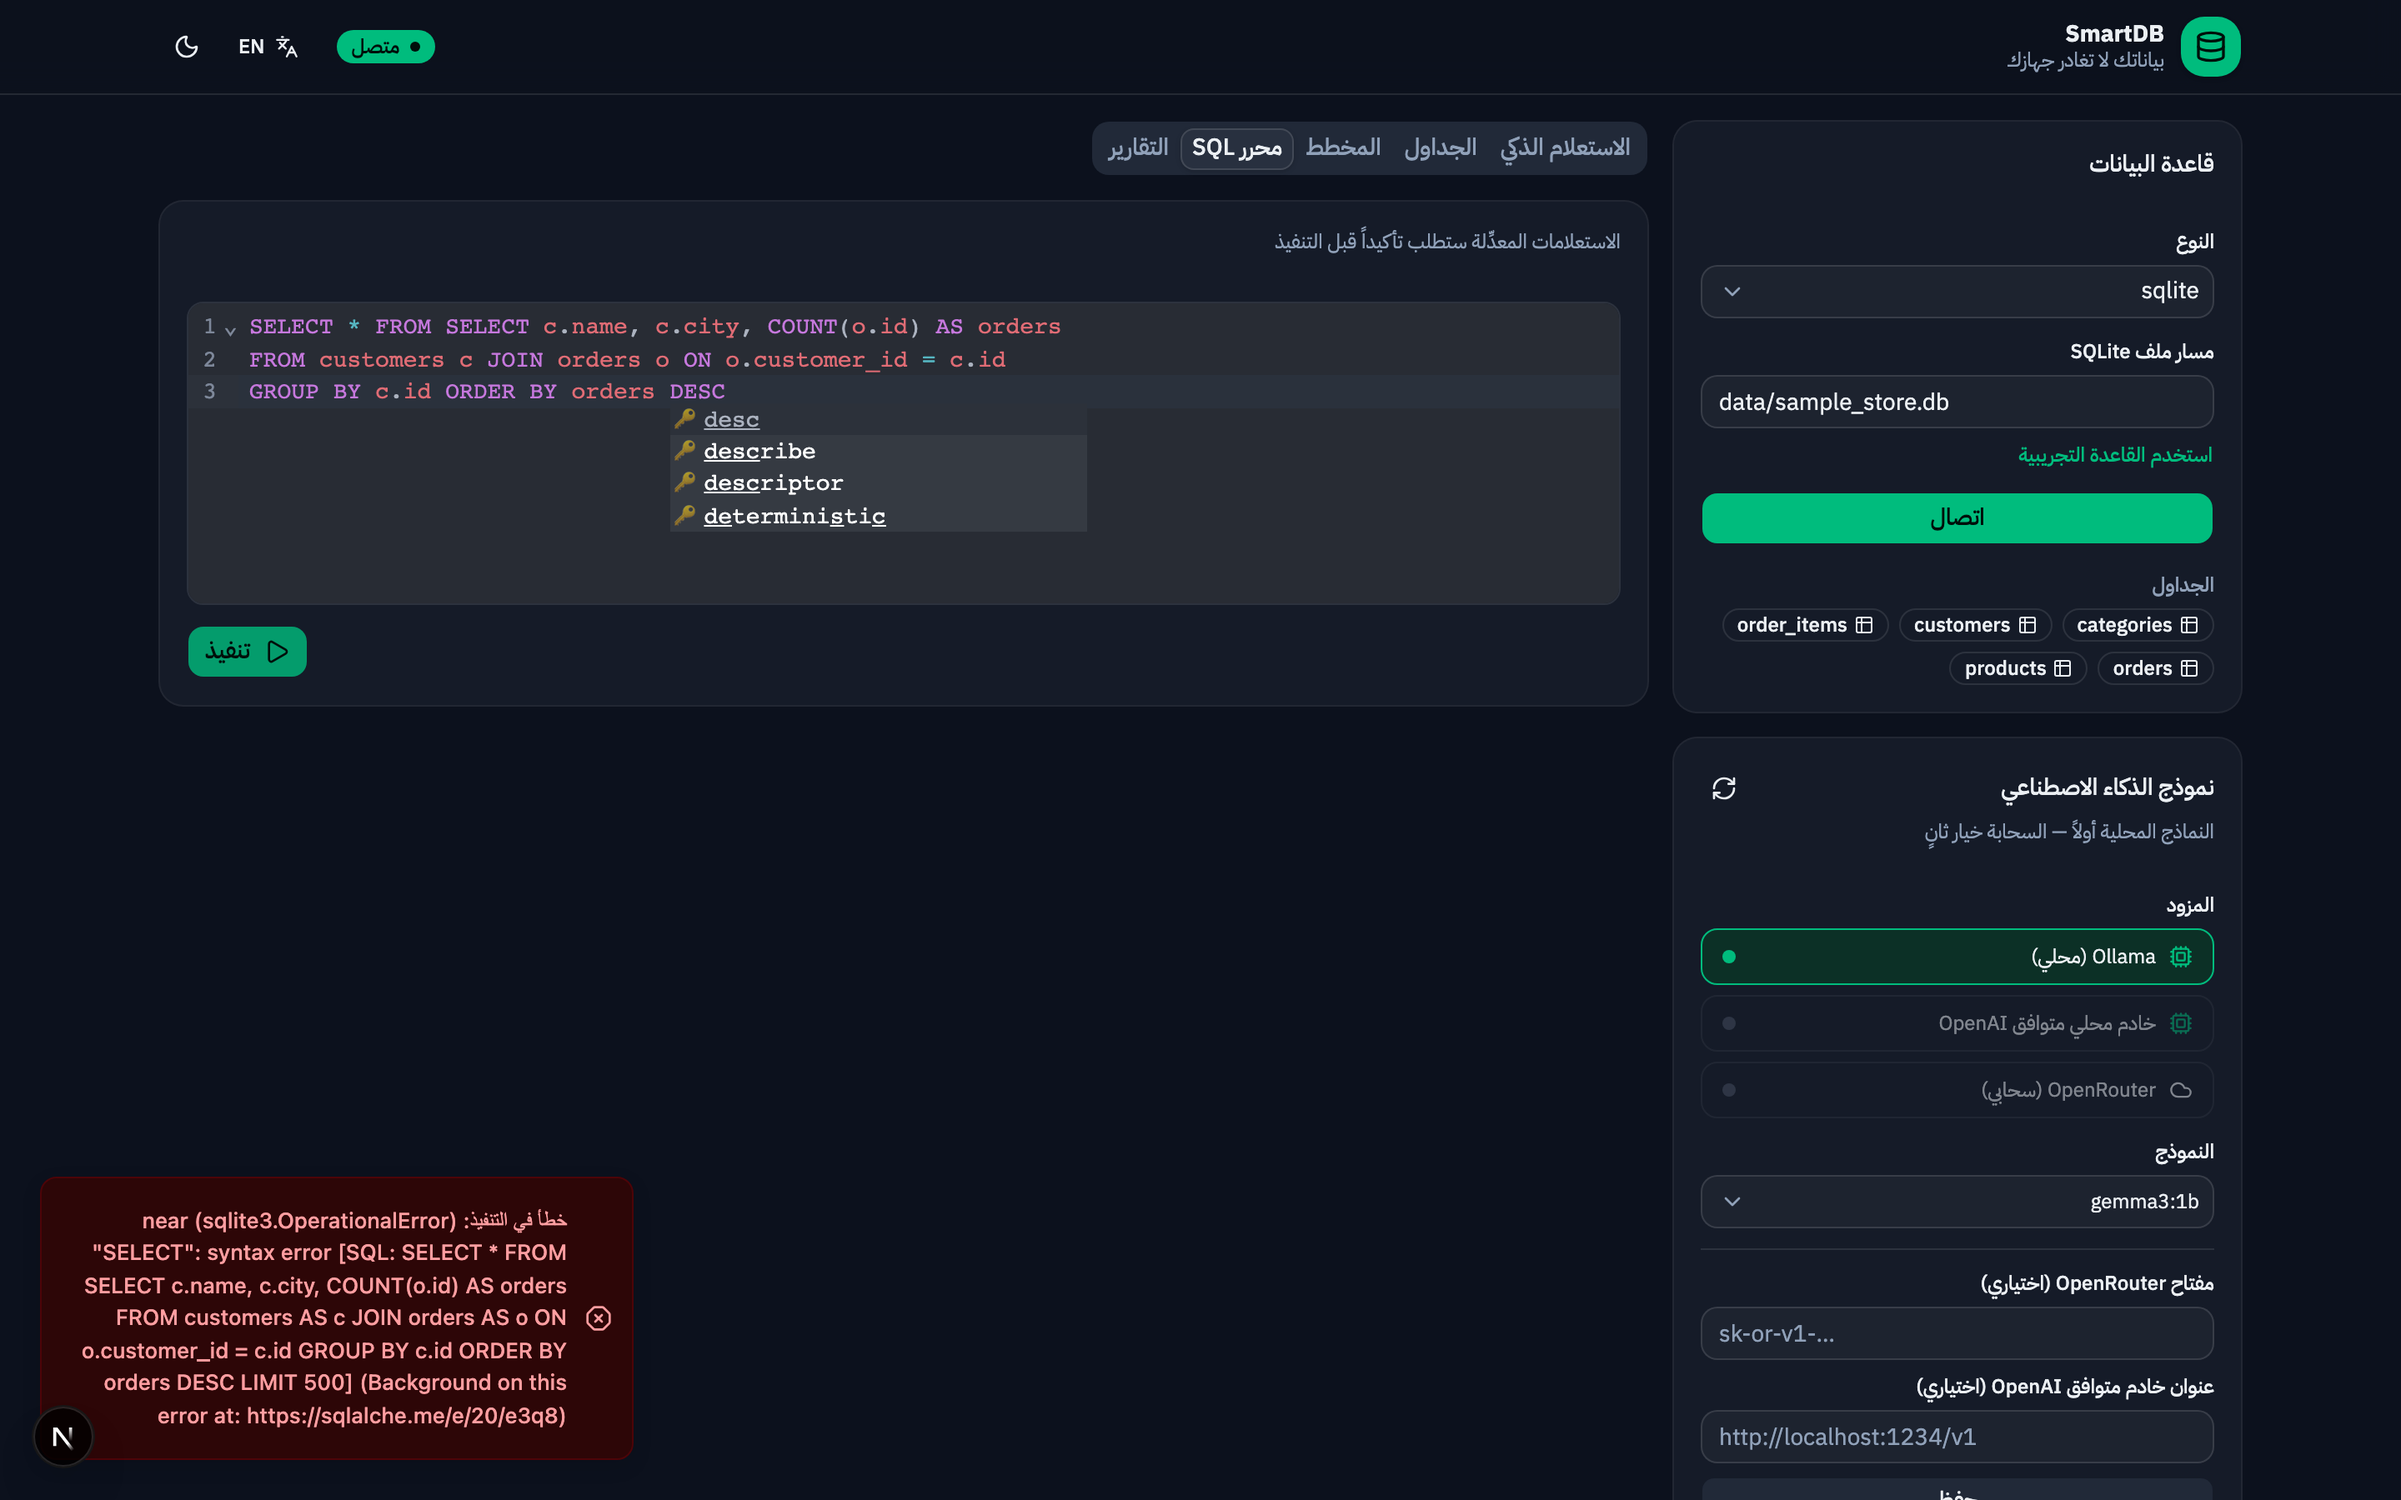
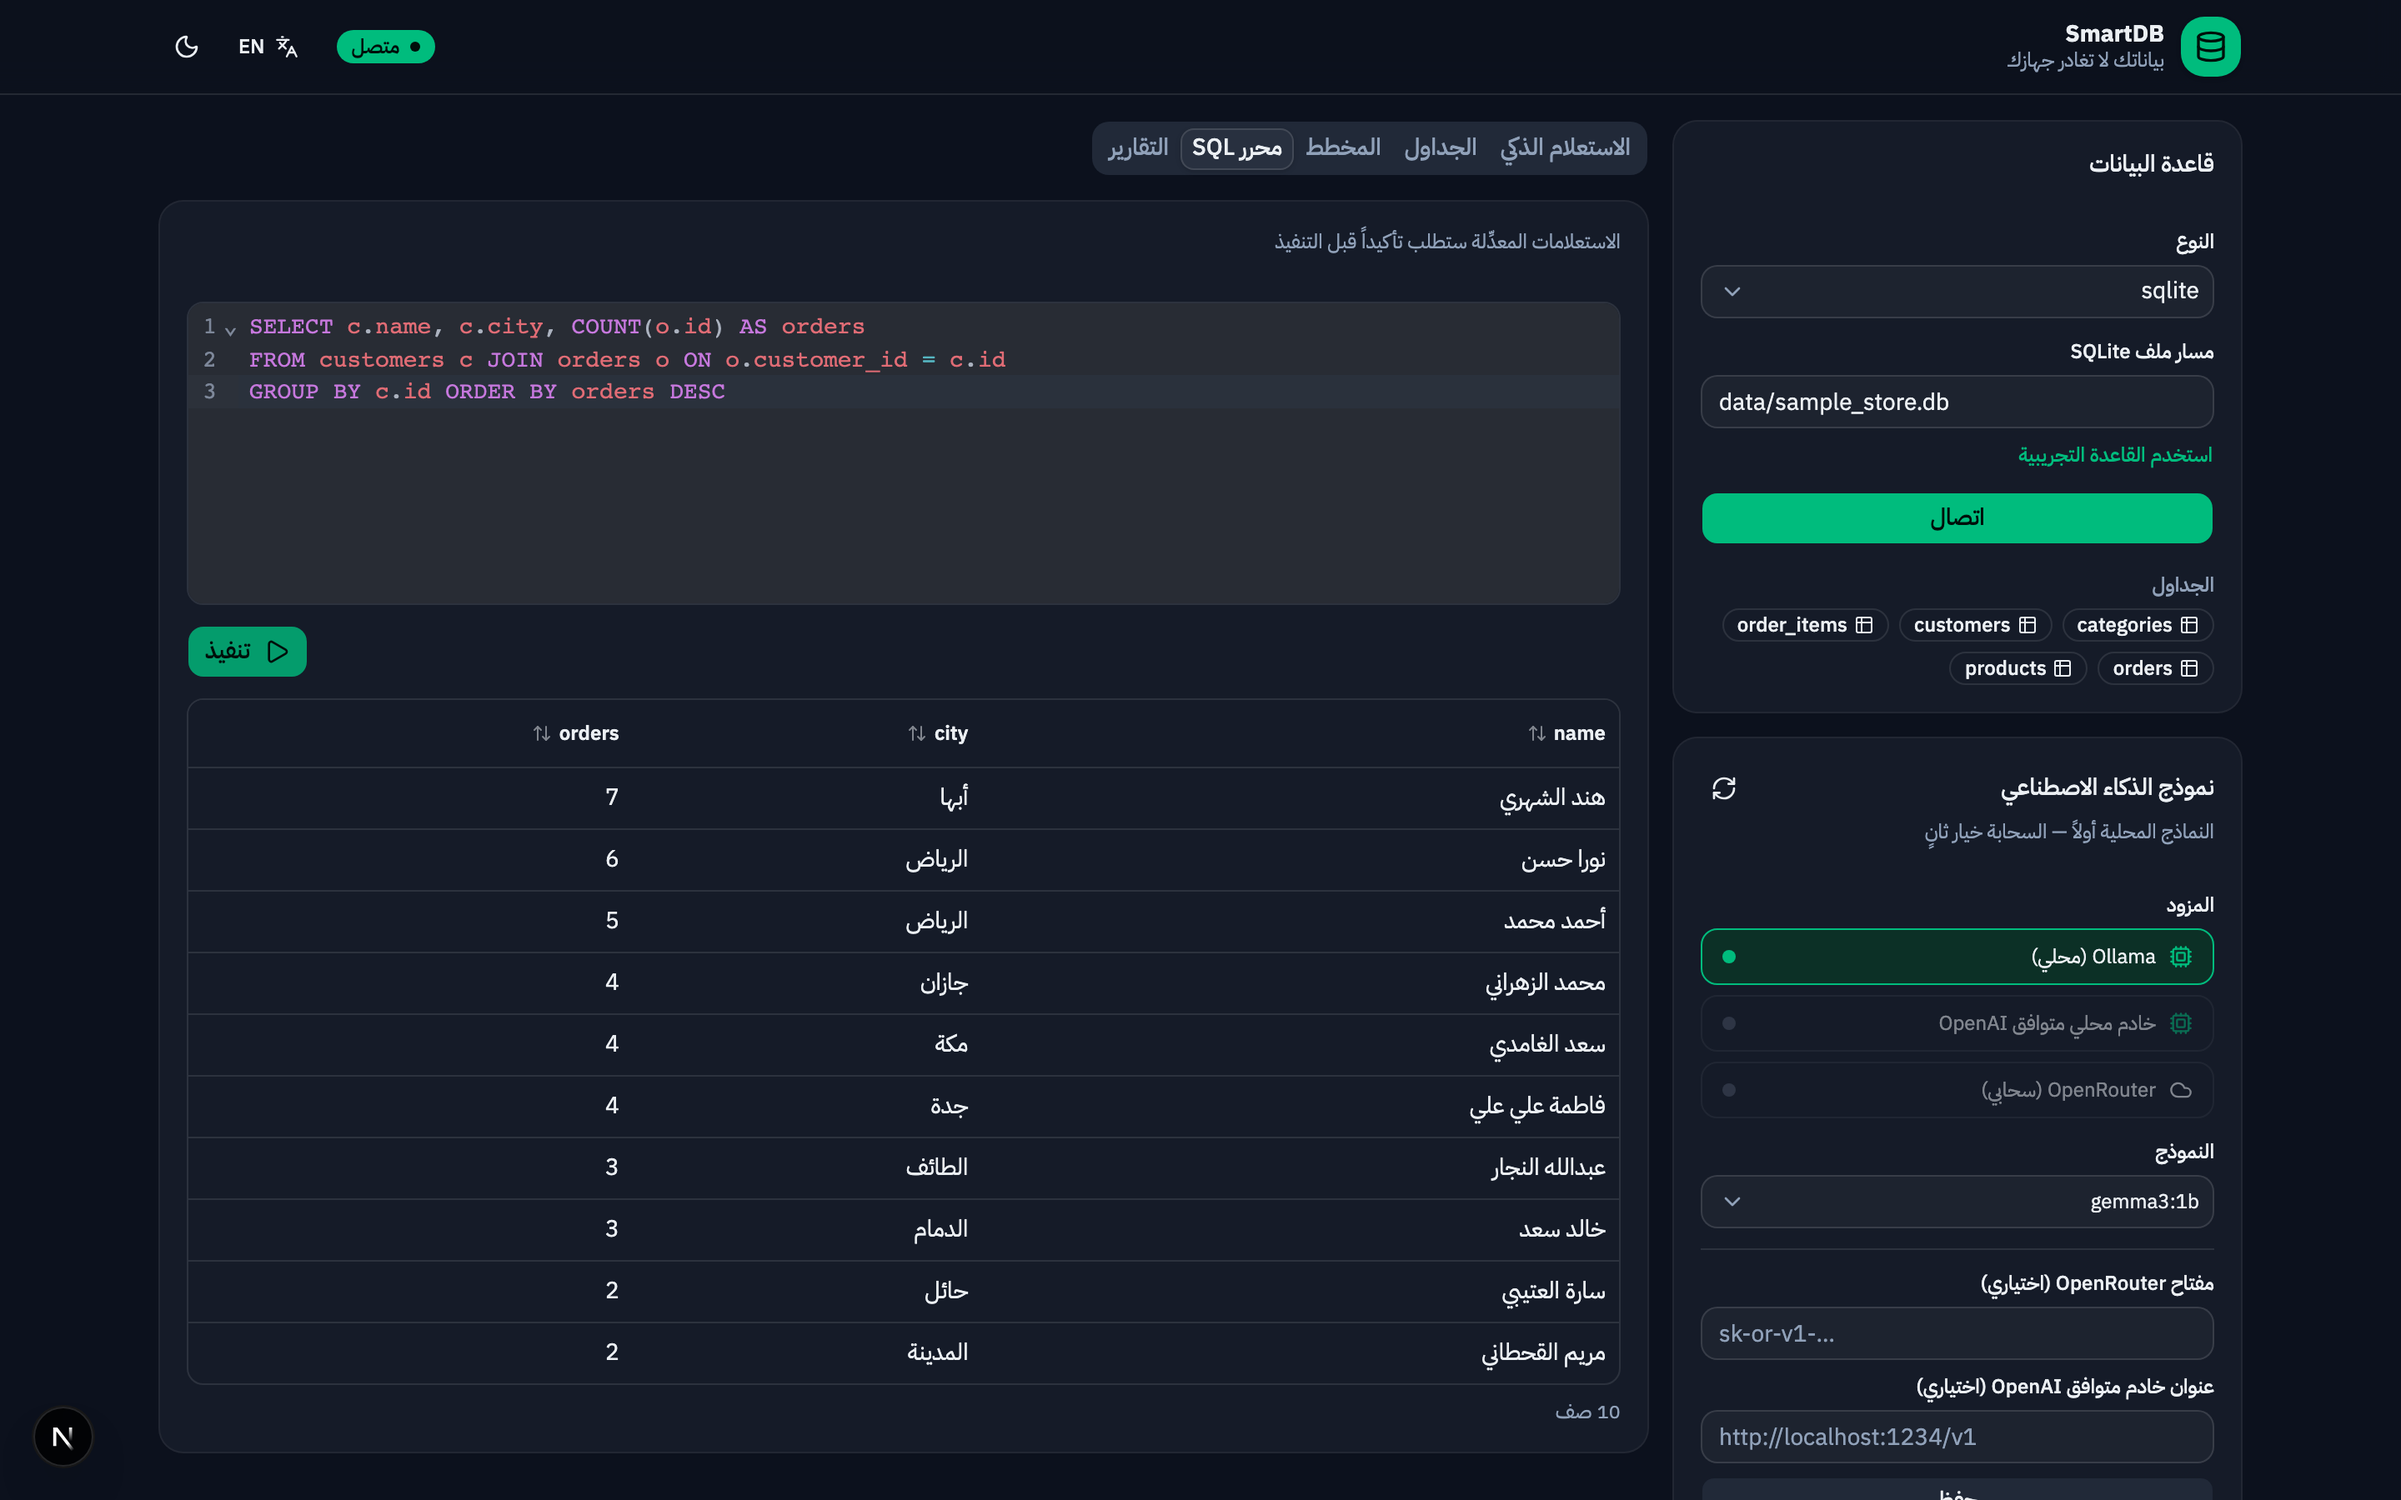
docs: clean SQL editor screenshot (fix capture script)

diff --git a/backend/scripts/capture_screenshots.py b/backend/scripts/capture_screenshots.py
@@ -38,11 +38,15 @@ def main():
             "sql": "SELECT name, price FROM products ORDER BY price DESC"})
         page.get_by_role("tab", name="محرر SQL").click()
         page.locator(".cm-content").click()
+        page.keyboard.press("Meta+a")          # مسح المحتوى الافتراضي أولاً
+        page.keyboard.press("Delete")
         page.keyboard.type("SELECT c.name, c.city, COUNT(o.id) AS orders\n"
                            "FROM customers c JOIN orders o ON o.customer_id = c.id\n"
                            "GROUP BY c.id ORDER BY orders DESC")
+        page.keyboard.press("Escape")          # إغلاق الإكمال التلقائي
         page.get_by_role("button", name="تنفيذ").click()
-        page.wait_for_timeout(1200)
+        page.wait_for_selector("table")        # انتظار جدول النتائج
+        page.wait_for_timeout(4500)            # زوال أي toast
         shot(page, "sql-editor-ar-dark")
 
         # 2) الجداول
